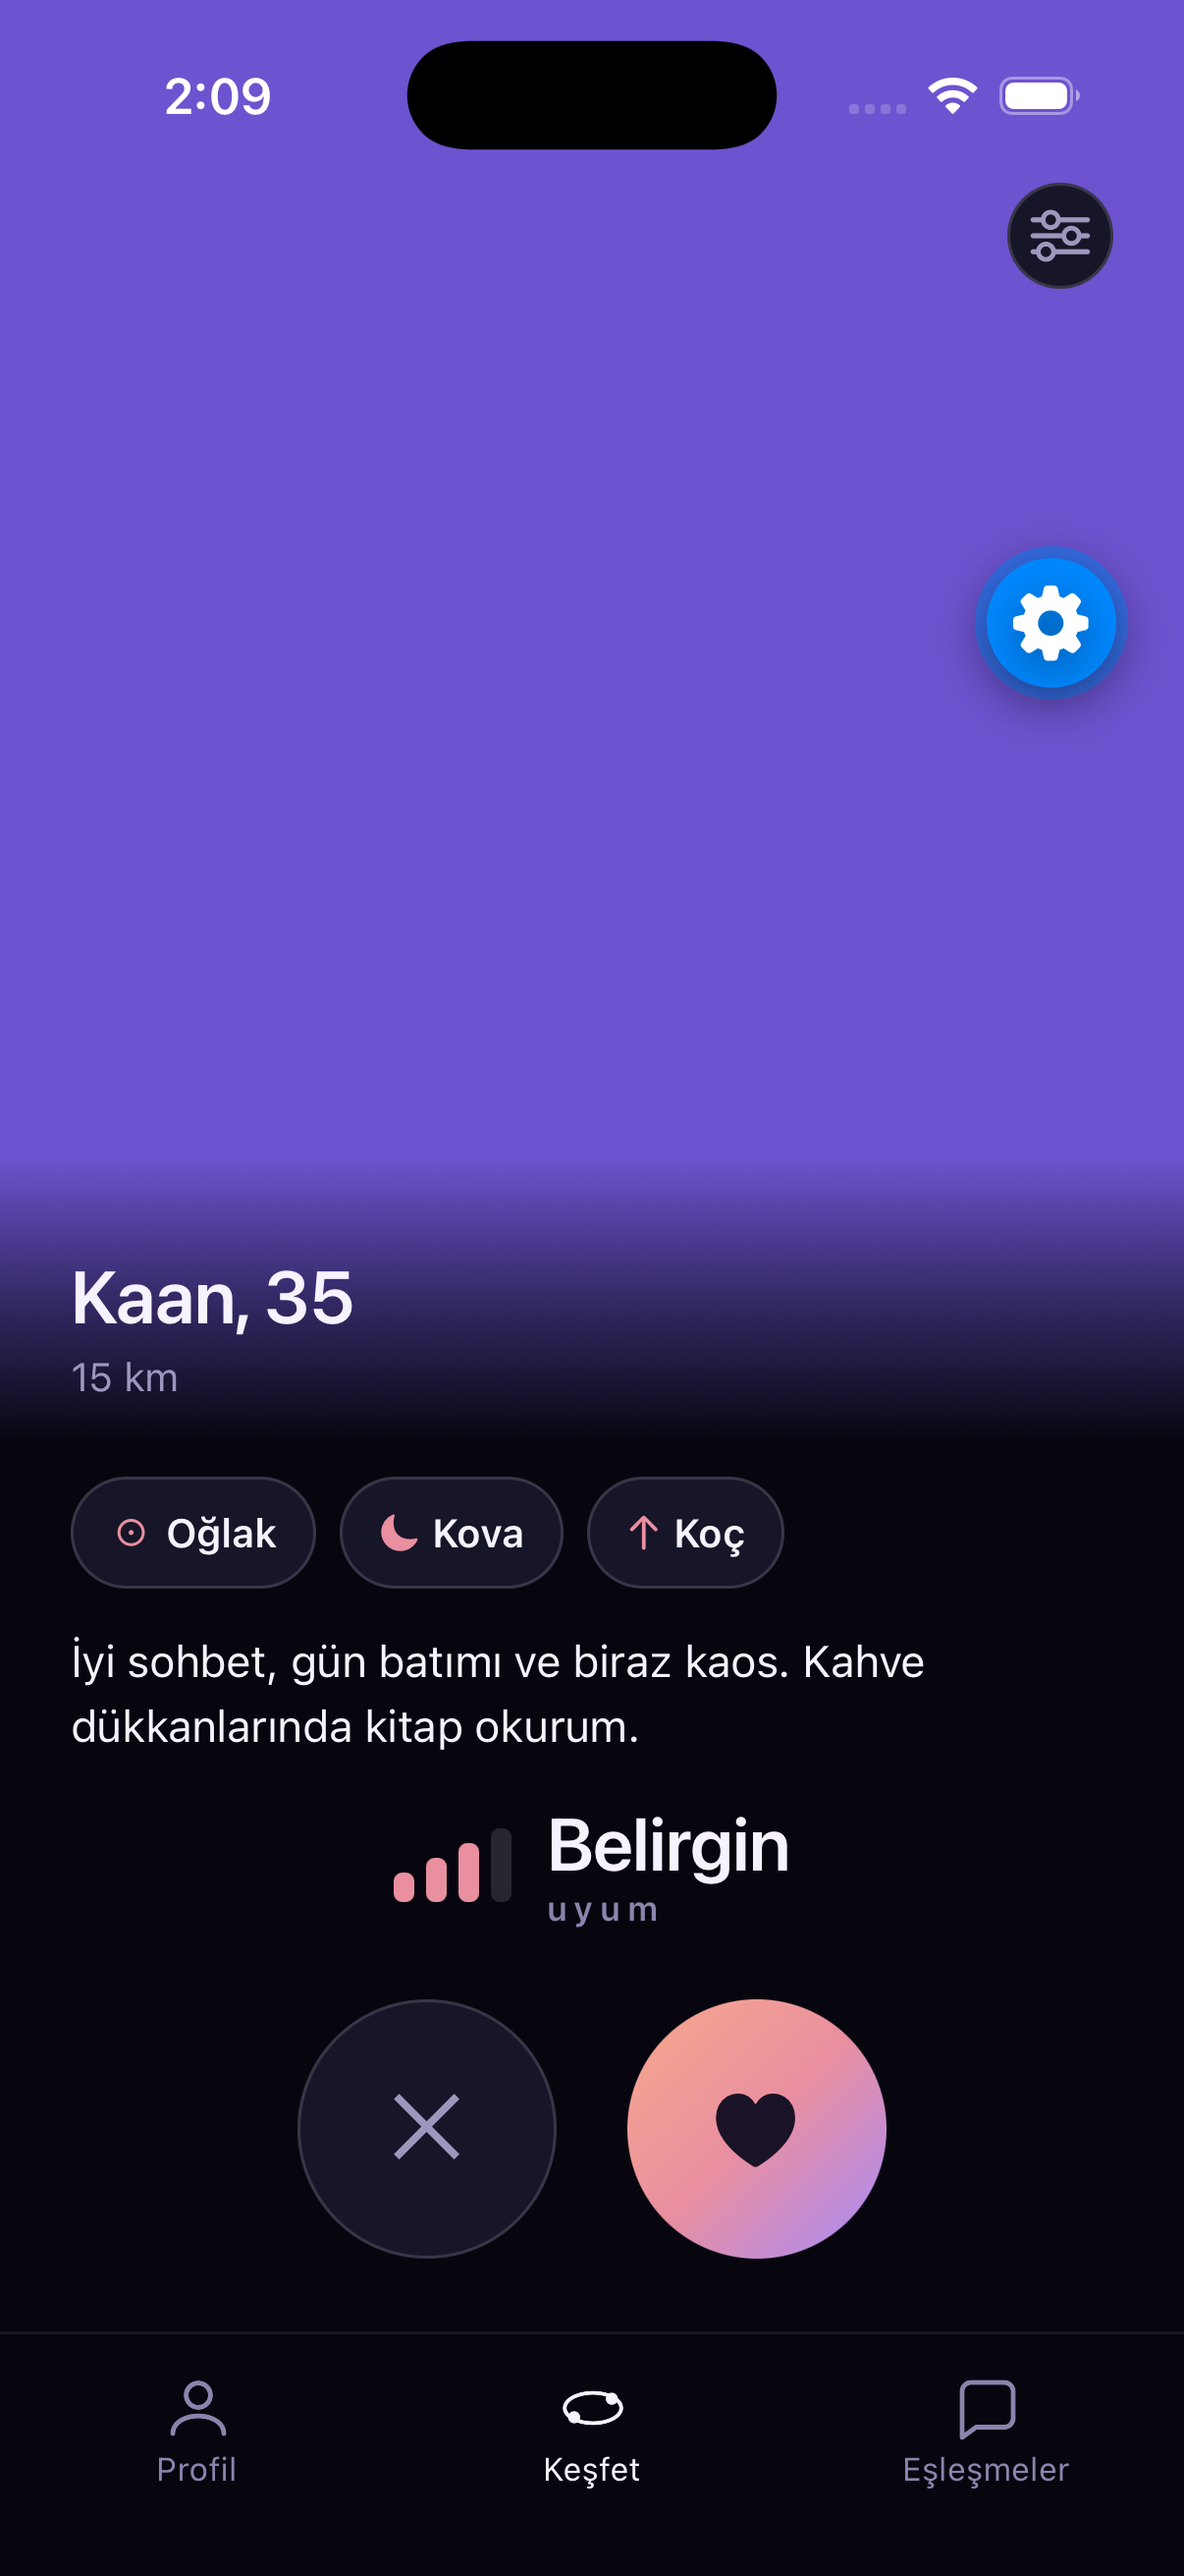
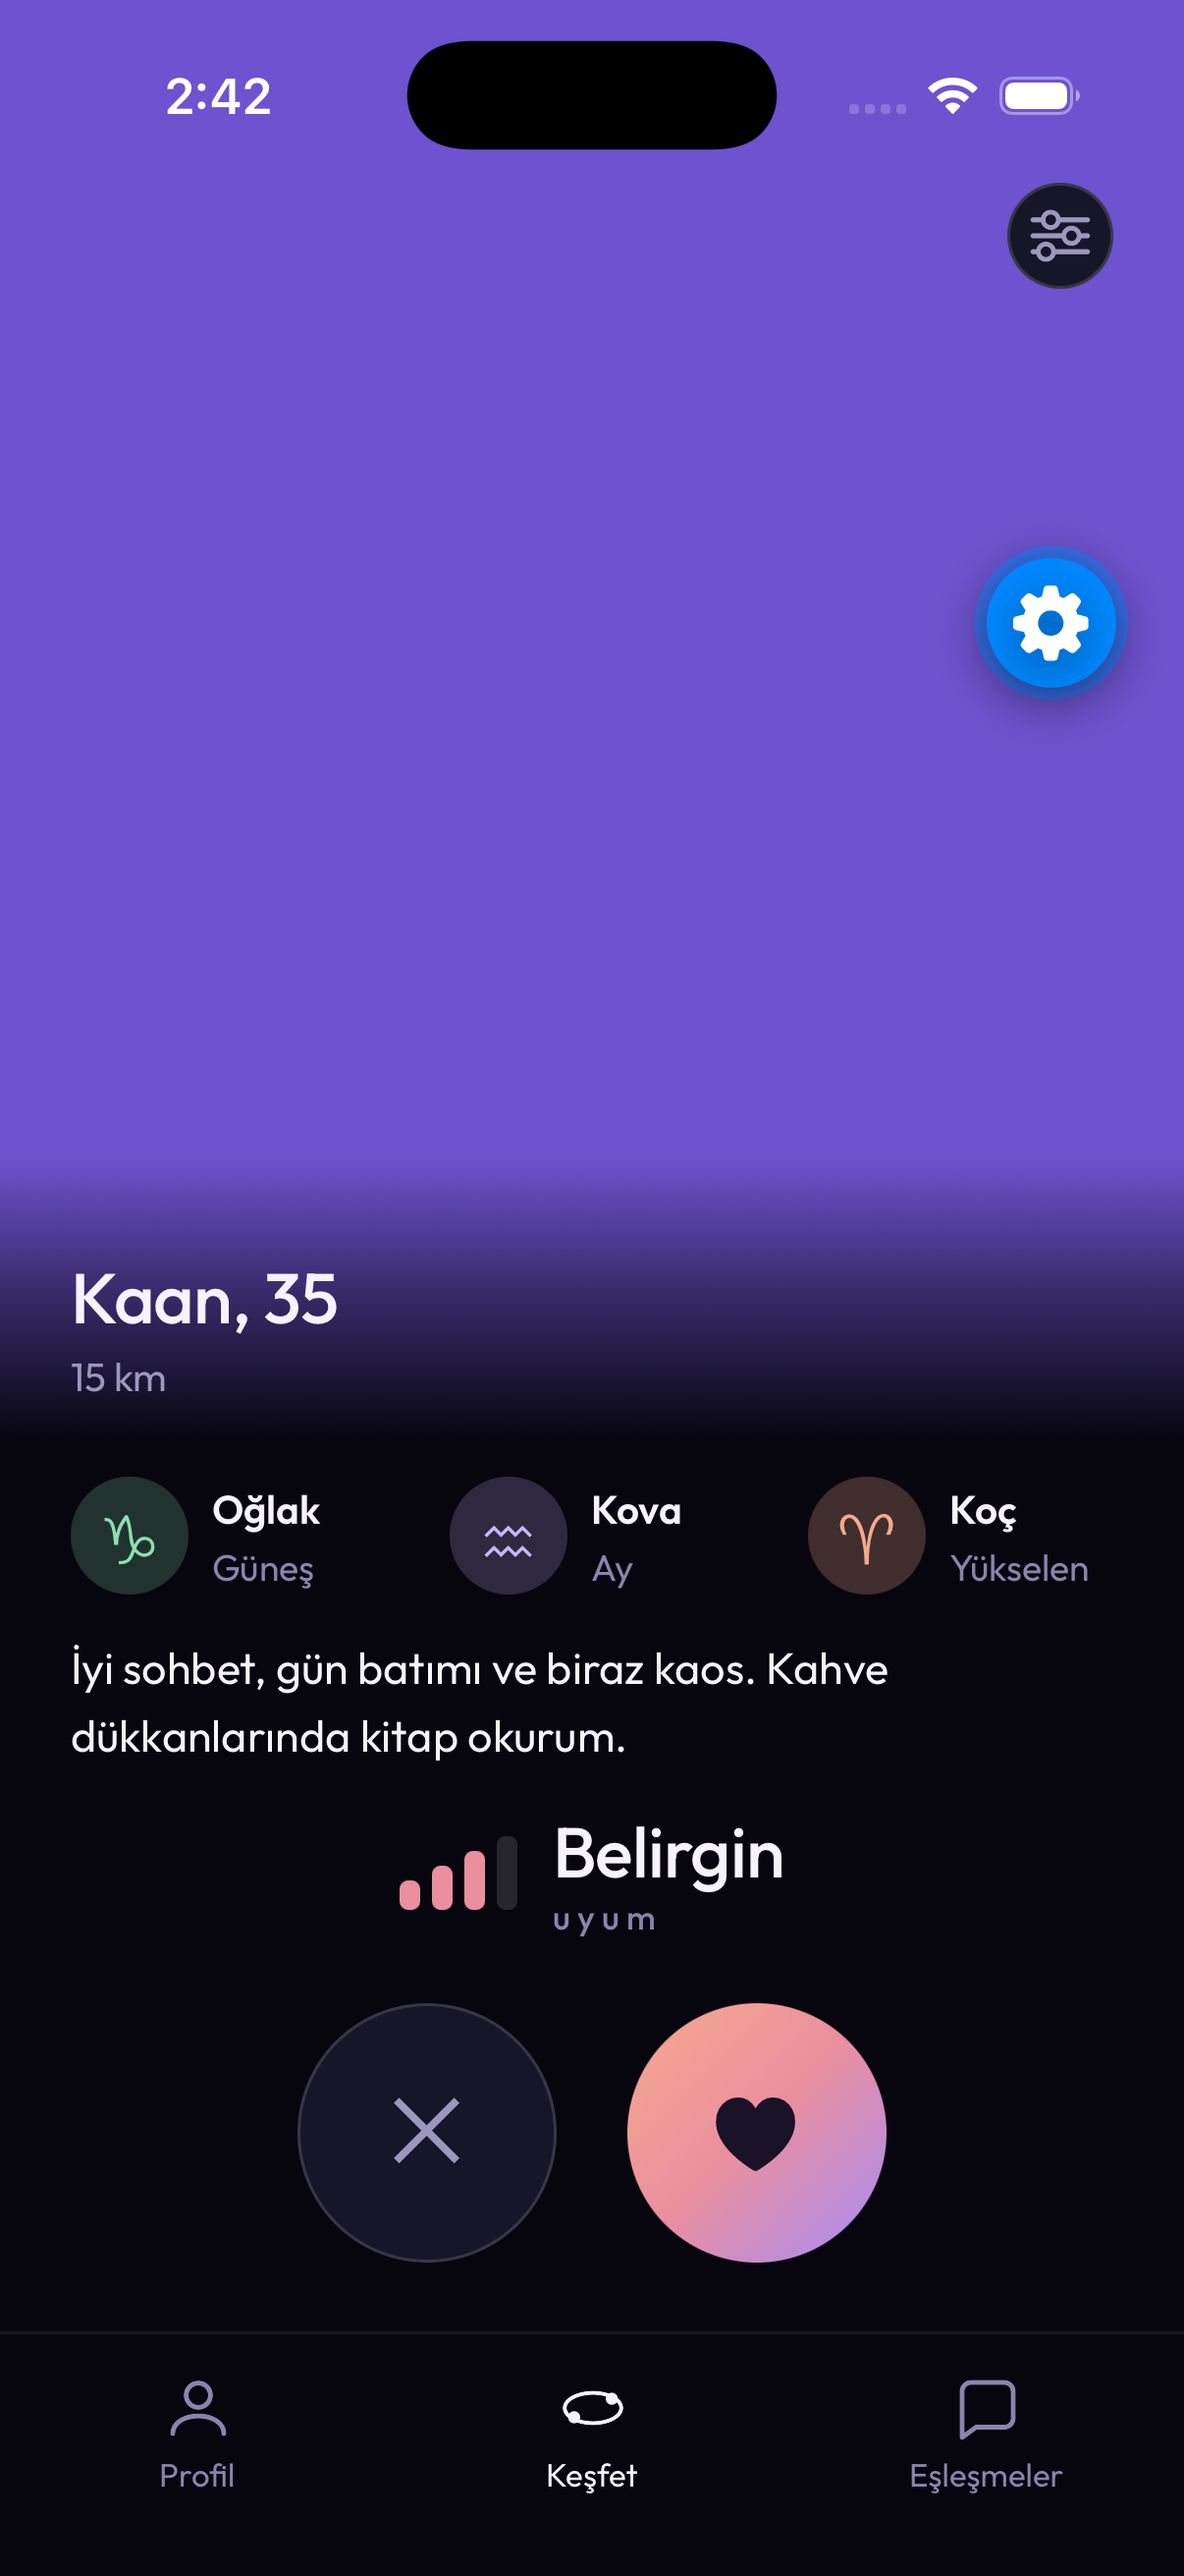
fix(mobile): the level word on two lines, the body word fitting, the ring on its host's ground
The dimension's level word is its whole value under ADR-0009 and a
one-line box cut it at a large text size; "Yükselen" fits itself the
way the sign does; the halo takes a ground so a sheet does not show a
darker hole; the dimension rows are a list so their labels reach the
web. Screenshots of the badge row on its three hosts replace the stale
ones.

diff --git a/apps/mobile/components/CompatibilityDetail.tsx b/apps/mobile/components/CompatibilityDetail.tsx
@@ -51,35 +51,41 @@ export function CompatibilityDetail({
               a track filled to the level, the level's word. Thirds, not
               a number — the level has three steps and the fill is the
               step, so no figure reaches a Text (ADR-0009). */}
-          {reading.dimensions.map((d) => (
-            <View
-              key={d.dimension}
-              style={styles.dimensionRow}
-              testID={`dimension-${d.dimension}`}
-              accessible
-              aria-label={`${d.name}: ${d.label}`}
-            >
-              <Text style={styles.dimensionName} numberOfLines={1}>
-                {d.name}
-              </Text>
-              <View style={styles.track}>
-                <LinearGradient
-                  colors={[...gradient]}
-                  start={{ x: 0, y: 0 }}
-                  end={{ x: 1, y: 0 }}
-                  style={[
-                    styles.fill,
-                    {
-                      width: `${((LEVELS.indexOf(d.level) + 1) / LEVELS.length) * 100}%`,
-                    },
-                  ]}
-                />
+          <View role="list">
+            {reading.dimensions.map((d) => (
+              <View
+                key={d.dimension}
+                style={styles.dimensionRow}
+                testID={`dimension-${d.dimension}`}
+                accessible
+                role="listitem"
+                aria-label={`${d.name}: ${d.label}`}
+              >
+                <Text style={styles.dimensionName} numberOfLines={2}>
+                  {d.name}
+                </Text>
+                <View style={styles.track}>
+                  <LinearGradient
+                    colors={[...gradient]}
+                    start={{ x: 0, y: 0 }}
+                    end={{ x: 1, y: 0 }}
+                    style={[
+                      styles.fill,
+                      {
+                        width: `${((LEVELS.indexOf(d.level) + 1) / LEVELS.length) * 100}%`,
+                      },
+                    ]}
+                  />
+                </View>
+                {/* Two lines, not one: this word is the dimension's whole
+                    value (ADR-0009 §2), and at a large text size a one-line
+                    box would cut it to "Kolay yakın…" (review, 2026-09-16). */}
+                <Text style={styles.dimensionLevel} numberOfLines={2}>
+                  {d.label}
+                </Text>
               </View>
-              <Text style={styles.dimensionLevel} numberOfLines={1}>
-                {d.label}
-              </Text>
-            </View>
-          ))}
+            ))}
+          </View>
         </>
       )}
 

diff --git a/apps/mobile/components/PairReading.tsx b/apps/mobile/components/PairReading.tsx
@@ -28,9 +28,12 @@ import { color, space, type } from '@/theme/tokens';
 export function PairReading({
   mine,
   theirs,
+  ground,
 }: {
   mine: PublicChart;
   theirs: PublicChart;
+  /** The host's ground, for the ring's middle: a sheet is `surface`. */
+  ground?: string;
 }) {
   const reading = useMemo(
     () => synastryReading(mine, theirs, 5),
@@ -49,7 +52,7 @@ export function PairReading({
     <View style={styles.root} testID="synastry">
       {/* The band, never the number (ADR-0009 §3) — inside the ring the
           sheet draws around its percentage (frame 10). */}
-      <Halo size={168}>
+      <Halo size={168} {...(ground === undefined ? {} : { ground })}>
         <Text style={styles.bandName} testID="band">
           {reading.bandName}
         </Text>

diff --git a/apps/mobile/components/ui.tsx b/apps/mobile/components/ui.tsx
@@ -448,10 +448,13 @@ export function GlyphBadge({
 export function Halo({
   size,
   ring = 3,
+  ground = color.bg,
   children,
 }: {
   size: number;
   ring?: number;
+  /** What the host paints under it — a sheet is `surface`, a page `bg`. */
+  ground?: string;
   children: ReactNode;
 }) {
   const glow = size * 1.9;
@@ -473,6 +476,7 @@ export function Halo({
             {
               width: size - ring * 2,
               height: size - ring * 2,
+              backgroundColor: ground,
             },
           ]}
         >
@@ -605,7 +609,6 @@ const s = StyleSheet.create({
   },
   haloInner: {
     borderRadius: radius.pill,
-    backgroundColor: color.bg,
     alignItems: 'center',
     justifyContent: 'center',
     gap: 2,

diff --git a/apps/mobile/components/BigThreeRow.tsx b/apps/mobile/components/BigThreeRow.tsx
@@ -66,9 +66,14 @@ export function BigThreeRow({
               >
                 {SIGN_TR[sign]}
               </Text>
+              {/* Fits itself like the sign: "Yükselen" at a large text
+                  size is wider than a third of a small phone (review,
+                  2026-09-16). No cushion on the web, where fit is a no-op. */}
               <Text
                 style={styles.body}
                 numberOfLines={1}
+                adjustsFontSizeToFit
+                minimumFontScale={0.8}
                 maxFontSizeMultiplier={maxFontSizeMultiplier}
               >
                 {label()}

diff --git a/apps/mobile/app/(tabs)/(discover)/discover.tsx b/apps/mobile/app/(tabs)/(discover)/discover.tsx
@@ -576,7 +576,11 @@ export default function Discover() {
         >
           {/* The match page's whole reading, not a digest of it (owner,
               2026-09-15). */}
-          <PairReading mine={detail.mine} theirs={detail.theirs} />
+          <PairReading
+            mine={detail.mine}
+            theirs={detail.theirs}
+            ground={color.surface}
+          />
         </Popup>
       ) : null}
       {current && theirReading ? (
